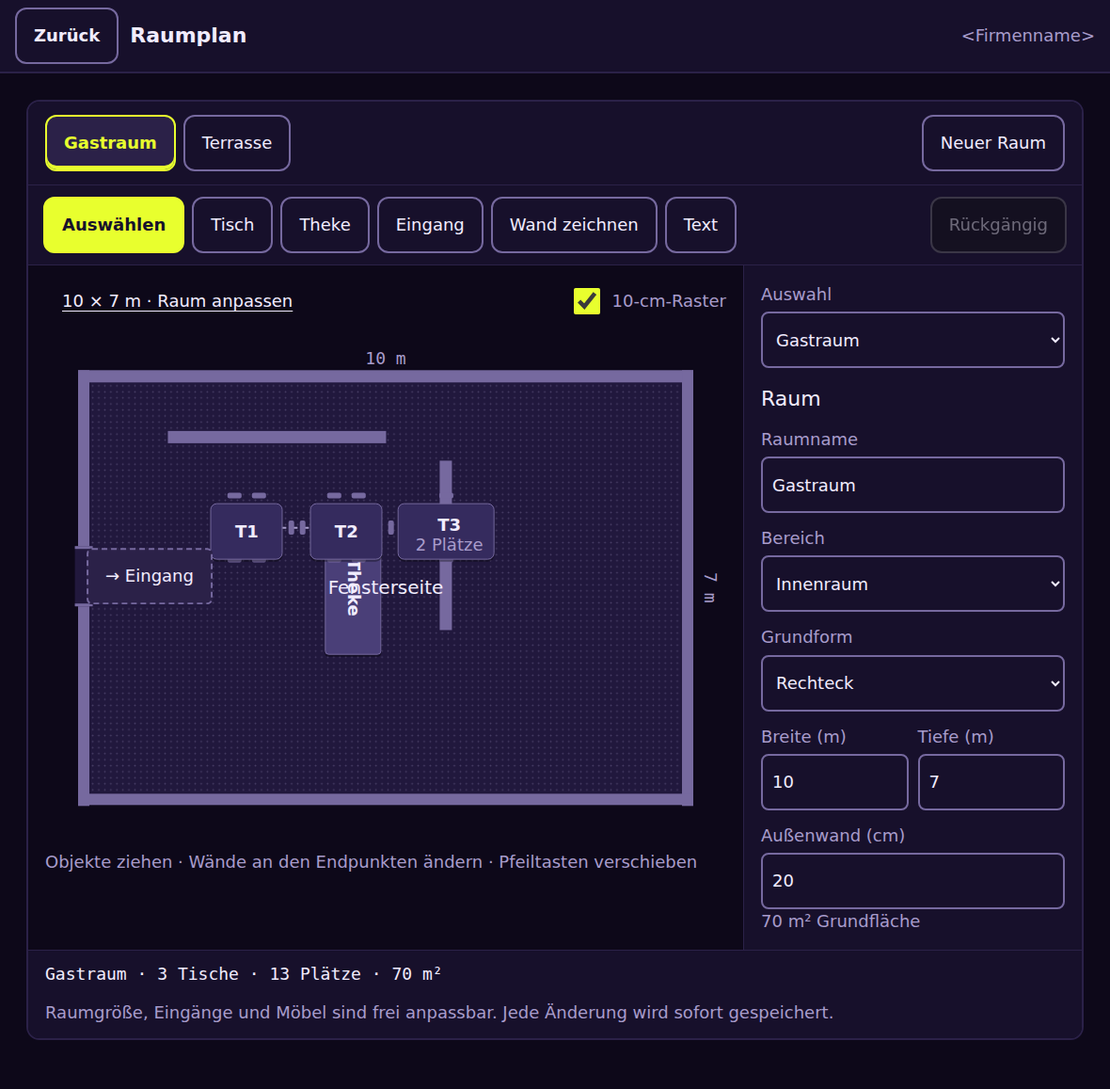
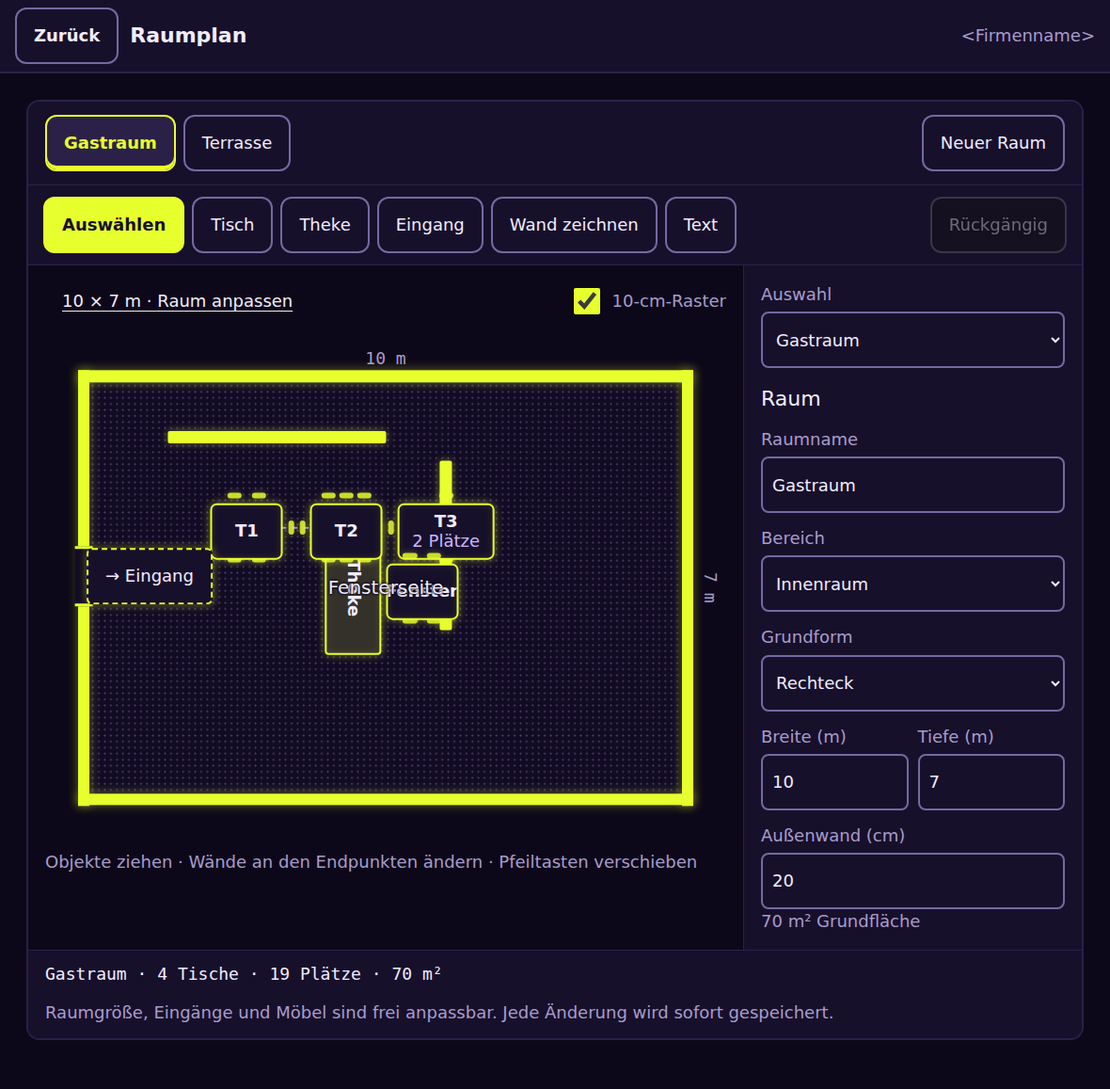
feat(gui): floor plan in neon, labels that turn, the counter's name centred
Tables, chairs, walls, counter and entrance are drawn in neon on midnight with a soft glow, the selection turns violet, names stay white, and free labels carry a thin dark outline (Maxi, 03.11.2026). A label turns across, upright from below and upright from above, and never stands on its head; its turn is stored with the label. A name written top to bottom was off centre on a counter, above the middle at 0 degrees and below it at 180; the text is now centred by position.

Changed region(s): [[0.061, 0.3111, 0.6407, 0.7468]]

diff --git a/api/gui/static/raumplan.css b/api/gui/static/raumplan.css
@@ -1,18 +1,24 @@
 /* The floor plan editor (T-3.11). Layout and behaviour of the approved design
    (gui/mockups/floor-plan-editor.html); since Maxi's word of 03.11.2026 it wears
-   the colours of the board (D27, app.css) instead of the preview's green: neon
-   marks the selection and the tool in use, coral only removing and what went
-   wrong, one dark theme. Sizes follow docs/06 §1: controls 60 px, text 18 px. */
+   the colours of the board and the README (D27, app.css) instead of the
+   preview's green, one dark theme: the plan is drawn in neon like a sign on
+   midnight with white names, what is selected turns violet (being worked on),
+   coral is only removing and what went wrong. Text 4.5:1 or more on every fill; a free label
+   carries a thin dark outline so it reads on a neon wall too. Sizes follow
+   docs/06 §1: controls 60 px, text 18 px. */
 
 .re {
   color-scheme: dark;
   --re-bg: var(--bg); --re-panel: var(--surface); --re-ink: var(--text); --re-sub: var(--muted);
   --re-line: var(--line); --re-control: var(--line-strong);
   --re-accent: var(--accent); --re-on: var(--surface); --re-soft: var(--accent-bg);
-  --re-floor: var(--surface-2); --re-terrace: #1A1330;
-  --re-wood: #352B5E; --re-wood-on: #433878; --re-counter: #4A3F78;
-  --re-edge: var(--line-strong); --re-chair: var(--line-strong); --re-wall: var(--line-strong);
-  --re-link: var(--muted); --re-red: var(--danger);
+  --re-floor: #120B24; --re-terrace: #0F0A1E;
+  --re-wood: var(--surface); --re-wood-on: var(--warn-bg); --re-counter: color-mix(in srgb, var(--accent) 14%, var(--surface));
+  --re-edge: var(--accent); --re-chair: var(--accent); --re-wall: var(--accent);
+  --re-glow: color-mix(in srgb, var(--accent) 38%, transparent);
+  --re-select: var(--warn-line); --re-select-glow: color-mix(in srgb, var(--warn-line) 40%, transparent);
+  --re-link: var(--warn-line); --re-red: var(--danger);
+  --re-outline: 0 0 2px var(--bg), 0 0 2px var(--bg), 0 0 3px var(--bg);
   --re-tap: var(--tap, 60px);
   color: var(--re-ink); background: var(--re-bg); border: 2px solid var(--re-line); border-radius: var(--r-lg, 14px); overflow: hidden;
   font: 18px/1.4 var(--font-sans, system-ui, sans-serif); margin: 12px;
@@ -50,12 +56,12 @@
 .re-grid-control input { width: 28px; height: 28px; accent-color: var(--re-accent); }
 .re-stage { height: 520px; position: relative; margin: 0 14px; min-width: 0; }
 .re-floor { position: absolute; left: 50%; top: 50%; transform: translate(-50%, -50%); background: var(--re-floor); isolation: isolate; touch-action: none; }
-.re-floor.re-grid { background-image: radial-gradient(circle, color-mix(in srgb, var(--re-sub) 30%, transparent) .8px, transparent 1px); }
+.re-floor.re-grid { background-image: radial-gradient(circle, color-mix(in srgb, var(--line-strong) 45%, transparent) .9px, transparent 1.2px); }
 .re-floor.re-drawing { cursor: crosshair; }
 .re-floor.re-drawing .re-object, .re-floor.re-drawing .re-endpoint { pointer-events: none; }
 .re-floor.re-terrace { background-color: var(--re-terrace); }
-.re-floor.re-terrace .re-outer { background: transparent; border: 2px dashed var(--re-wall); }
-.re-outer { position: absolute; background: var(--re-wall); pointer-events: none; z-index: 0; }
+.re-floor.re-terrace .re-outer { background: transparent; border: 2px dashed var(--re-wall); box-shadow: none; }
+.re-outer { position: absolute; background: var(--re-wall); box-shadow: 0 0 12px var(--re-glow); pointer-events: none; z-index: 0; }
 .re-dimension { position: absolute; color: var(--re-sub); font-family: var(--font-mono, monospace); white-space: nowrap; pointer-events: none; }
 .re-dimension-x { left: 50%; top: -32px; transform: translateX(-50%); }
 .re-dimension-y { right: -12px; top: 50%; transform: translate(100%, -50%); writing-mode: vertical-rl; }
@@ -68,36 +74,39 @@
 .re-object button { cursor: grab; touch-action: none; user-select: none; -webkit-user-select: none; }
 .re-object button:active { cursor: grabbing; }
 .re-furniture { transform: translate(-50%, -50%) rotate(var(--re-angle)); }
-.re-piece { position: absolute; inset: 0; width: 100%; height: 100%; border: 1px solid var(--re-edge); border-radius: 7px; background: var(--re-wood); color: var(--re-ink); padding: 0; display: grid; place-items: center; overflow: hidden; box-shadow: 0 2px 0 rgba(0, 0, 0, .35); }
+.re-piece { position: absolute; inset: 0; width: 100%; height: 100%; border: 2px solid var(--re-edge); border-radius: 7px; background: var(--re-wood); padding: 0; display: grid; place-items: center; overflow: hidden; box-shadow: 0 0 10px var(--re-glow), inset 0 0 8px color-mix(in srgb, var(--accent) 10%, transparent); }
 .re-round .re-piece { border-radius: 50%; }
-.re-selected .re-piece { background: var(--re-wood-on); border: 3px solid var(--re-accent); box-shadow: 0 0 0 4px color-mix(in srgb, var(--re-accent) 22%, transparent); }
-.re-piece-text { display: flex; flex-direction: column; align-items: center; transform: rotate(var(--re-text-turn)); pointer-events: none; white-space: nowrap; line-height: 1.15; }
+.re-selected .re-piece { background: var(--re-wood-on); border: 3px solid var(--re-select); box-shadow: 0 0 0 4px var(--re-select-glow), 0 0 14px var(--re-select-glow); }
+/* Centred by position, not by the grid: a name written top to bottom stood
+   off centre, above the middle at 0 degrees and below it at 180. */
+.re-piece-text { position: absolute; left: 50%; top: 50%; display: flex; flex-direction: column; align-items: center; transform: translate(-50%, -50%) rotate(var(--re-text-turn)); pointer-events: none; white-space: nowrap; line-height: 1.15; }
 .re-piece-text.re-vertical { writing-mode: vertical-rl; }
 .re-piece-name { font-weight: 600; }
-.re-piece-seats { color: var(--re-sub); }
+.re-piece-seats { color: var(--warn); }
 /* Muted text reaches only 4:1 on the lighter fill of a selected table. */
 .re-selected .re-piece-seats { color: var(--re-ink); }
 .re-piece-seats[hidden] { display: none; }
 .re-counter .re-piece { background: var(--re-counter); border-radius: 4px; }
 .re-counter.re-selected .re-piece { background: var(--re-wood-on); }
 .re-counter .re-piece-name { max-width: 200px; overflow: hidden; text-overflow: ellipsis; }
-.re-chair { position: absolute; transform: translate(-50%, -50%) rotate(var(--chair-angle, 0deg)); background: var(--re-chair); border-radius: 2px; pointer-events: none; }
+.re-chair { position: absolute; transform: translate(-50%, -50%) rotate(var(--chair-angle, 0deg)); background: var(--re-chair); border-radius: 3px; opacity: .85; box-shadow: 0 0 6px var(--re-glow); pointer-events: none; }
+.re-selected .re-chair { background: var(--re-select); box-shadow: 0 0 6px var(--re-select-glow); }
 .re-wall-object { transform: translate(-50%, -50%) rotate(var(--re-angle)); }
 .re-wall-hit { position: absolute; inset: 0; border: 0; padding: 0; width: 100%; height: 100%; background: transparent; }
-.re-wall-bar { position: absolute; left: 0; right: 0; top: 50%; transform: translateY(-50%); height: var(--re-thickness); background: var(--re-wall); pointer-events: none; }
-.re-selected .re-wall-bar { background: var(--re-accent); box-shadow: 0 0 0 4px color-mix(in srgb, var(--re-accent) 22%, transparent); }
-.re-wall-measure { position: absolute; left: 50%; top: calc(50% - 34px); transform: translate(-50%, -100%) rotate(calc(-1 * var(--re-angle))); color: var(--re-ink); font-family: var(--font-mono, monospace); font-weight: 600; white-space: nowrap; pointer-events: none; }
+.re-wall-bar { position: absolute; left: 0; right: 0; top: 50%; transform: translateY(-50%); height: var(--re-thickness); background: var(--re-wall); border-radius: 2px; box-shadow: 0 0 10px var(--re-glow); pointer-events: none; }
+.re-selected .re-wall-bar { background: var(--re-select); box-shadow: 0 0 0 4px var(--re-select-glow), 0 0 14px var(--re-select-glow); }
+.re-wall-measure { position: absolute; left: 50%; top: calc(50% - 34px); transform: translate(-50%, -100%) rotate(calc(-1 * var(--re-angle))); color: var(--re-ink); text-shadow: var(--re-outline); font-family: var(--font-mono, monospace); font-weight: 600; white-space: nowrap; pointer-events: none; }
 .re-preview { position: absolute; background: var(--re-accent); opacity: .55; pointer-events: none; z-index: 8; }
 /* The visible point is small; the target around it is 60 px (docs/06 §1). */
-.re-endpoint { position: absolute; width: 26px; height: 26px; padding: 0; transform: translate(-50%, -50%); border: 3px solid var(--re-accent); background: var(--re-panel); border-radius: 50%; z-index: 7; touch-action: none; cursor: crosshair; }
+.re-endpoint { position: absolute; width: 26px; height: 26px; padding: 0; transform: translate(-50%, -50%); border: 3px solid var(--re-select); background: var(--re-panel); border-radius: 50%; z-index: 7; touch-action: none; cursor: crosshair; }
 .re-endpoint::after { content: ""; position: absolute; inset: -17px; }
-.re-door-gap { position: absolute; background: var(--re-floor); transform: translate(-50%, -50%); pointer-events: none; border-inline: 3px solid var(--re-control); }
-.re-door.re-side .re-door-gap { border-inline: 0; border-block: 3px solid var(--re-control); }
-.re-door-button { position: absolute; transform: translate(-50%, -50%); border: 2px dashed var(--re-control); border-radius: 6px; padding: 6px 10px; background: var(--re-soft); color: var(--re-ink); white-space: nowrap; max-width: 220px; overflow: hidden; text-overflow: ellipsis; }
+.re-door-gap { position: absolute; background: var(--re-floor); transform: translate(-50%, -50%); pointer-events: none; border-inline: 3px solid var(--re-wall); }
+.re-door.re-side .re-door-gap { border-inline: 0; border-block: 3px solid var(--re-wall); }
+.re-door-button { position: absolute; transform: translate(-50%, -50%); border: 2px dashed var(--re-wall); border-radius: 6px; padding: 6px 10px; background: var(--re-wood); font-weight: 600; box-shadow: 0 0 10px var(--re-glow); white-space: nowrap; max-width: 220px; overflow: hidden; text-overflow: ellipsis; }
 .re-door-button::after, .re-label-button::after { content: ""; position: absolute; inset: -10px; }
-.re-selected .re-door-button { border: 3px solid var(--re-accent); }
-.re-label-button { position: relative; display: block; transform: translate(-50%, -50%); padding: 4px 6px; border: 2px solid transparent; background: transparent; color: var(--re-ink); border-radius: 6px; max-width: 240px; white-space: normal; overflow-wrap: anywhere; }
-.re-selected .re-label-button { border: 2px dashed var(--re-accent); background: var(--re-soft); }
+.re-selected .re-door-button { border: 3px solid var(--re-select); background: var(--re-wood-on); box-shadow: 0 0 0 4px var(--re-select-glow); }
+.re-label-button { position: relative; display: block; transform: translate(-50%, -50%) rotate(var(--re-label-turn, 0deg)); padding: 4px 6px; border: 2px solid transparent; background: transparent; color: var(--re-ink); text-shadow: var(--re-outline); border-radius: 6px; max-width: 240px; white-space: normal; overflow-wrap: anywhere; }
+.re-selected .re-label-button { border: 2px dashed var(--re-select); background: color-mix(in srgb, var(--re-wood-on) 85%, transparent); }
 .re-hint { min-height: 44px; padding: 4px 18px 14px; color: var(--re-sub); }
 
 .re-aside { padding: 18px; background: var(--re-panel); border-left: 1px solid var(--re-line); min-width: 0; }

diff --git a/api/gui/static/raumplan.js b/api/gui/static/raumplan.js
@@ -25,6 +25,7 @@
   var ui = { grid: true, advanced: false };
 
   var TITLES = { table: "Tisch", counter: "Theke", door: "Eingang", wall: "Wand", label: "Beschriftung" };
+  var LABEL_TURN_TEXT = { 0: "Waagerecht", "-90": "Senkrecht, von unten zu lesen", 90: "Senkrecht, von oben zu lesen" };
   var NOT_SAVED = "Nicht gespeichert: keine Verbindung zum Server. Die Änderung bleibt auf diesem Gerät.";
 
   function fmt(n, d) { return new Intl.NumberFormat("de-DE", { maximumFractionDigits: d === undefined ? 2 : d }).format(n); }
@@ -189,7 +190,7 @@
     if (type === "table") o = { id: id, type: type, name: G.nextTableName(allTableNames()), x: x, y: y, w: 120, h: 80, angle: 0, shape: "rect", seats: 4, endSeat: "left" };
     if (type === "counter") o = { id: id, type: type, name: "Theke", x: x, y: y, w: 80, h: 220, angle: 0 };
     if (type === "door") o = { id: id, type: type, name: "Eingang", side: "bottom", offset: r.w * 0.7, width: 100 };
-    if (type === "label") o = { id: id, type: type, text: "Beschriftung", x: x, y: y, size: "normal" };
+    if (type === "label") o = { id: id, type: type, text: "Beschriftung", x: x, y: y, size: "normal", angle: 0 };
     if (!G.available(o, r)) { status("Für dieses Objekt ist der Raum zu klein.", true); return; }
     G.fit(o, r);
     area.objects.push(o);
@@ -371,12 +372,16 @@
       wrap.classList.add("re-label");
       b = node("button", "re-label-button", o.text);
       b.type = "button";
+      var labelTurn = G.readableTurn(o.angle);
       b.style.fontSize = (G.LABEL_PX[o.size] || 20) + "px";
+      b.style.setProperty("--re-label-turn", labelTurn + "deg");
       b.setAttribute("aria-label", "Beschriftung: " + o.text);
       b.setAttribute("aria-pressed", String(active));
       wrap.append(b);
       floor.append(wrap);
-      var lw = b.offsetWidth, lh = b.offsetHeight;
+      // A label turned upright takes its width as height on the plan.
+      var upright = labelTurn !== 0;
+      var lw = upright ? b.offsetHeight : b.offsetWidth, lh = upright ? b.offsetWidth : b.offsetHeight;
       wrap.style.left = G.clamp(o.x * scale, lw / 2 + 3, area.room.w * scale - lw / 2 - 3) + "px";
       wrap.style.top = G.clamp(o.y * scale, lh / 2 + 3, area.room.h * scale - lh / 2 - 3) + "px";
     }
@@ -533,7 +538,10 @@
           numberField("thickness", "Dicke (cm)", o.thickness, L.wallMin, L.wallMax, 1) +
           numberField("angle", "Winkel (°)", Number(o.angle.toFixed(1)), -180, 180, 0.1, true);
       }
-      if (o.type === "label") html += selectField("size", "Schriftgröße", o.size, [["small", "Klein"], ["normal", "Normal"], ["large", "Groß"], ["xlarge", "Sehr groß"]]);
+      if (o.type === "label") {
+        html += selectField("size", "Schriftgröße", o.size, [["small", "Klein"], ["normal", "Normal"], ["large", "Groß"], ["xlarge", "Sehr groß"]]);
+        html += '<button type="button" class="re-btn re-full" data-action="turnLabel">Drehen</button><p class="re-meta re-full">' + LABEL_TURN_TEXT[G.readableTurn(o.angle)] + "</p>";
+      }
       extra += '<button class="re-btn re-delete" type="button" data-action="delete">' + title + " entfernen</button>";
     }
     props.innerHTML = "<h3>" + title + '</h3><div class="re-field-grid">' + html + "</div>" + extra;
@@ -599,6 +607,13 @@
     if (action === "room") { selectedId = "room"; mode = "select"; render(); return; }
     if (action === "clone") { cloneTable(); return; }
     if (action === "delete" && o) { remove(o); return; }
+    if (action === "turnLabel" && o && o.type === "label") {
+      var turnedFrom = content(area);
+      o.angle = G.nextLabelTurn(o.angle);
+      G.fit(o, area.room);
+      commit("Text gedreht: " + LABEL_TURN_TEXT[G.readableTurn(o.angle)], turnedFrom);
+      return;
+    }
     if (action && o) {
       var prior = content(area);
       if (action === "plus") o.seats = Math.min(L.seatsMax, o.seats + 1);

diff --git a/api/gui/static/raumplan-geometry.js b/api/gui/static/raumplan-geometry.js
@@ -61,6 +61,22 @@
     return { turn: -(o.angle || 0), vertical: o.type === "counter" && size[1] > size[0] * 1.5 };
   }
 
+  // A free label turns with its quarter turn but never stands on its head:
+  // 180 reads as 0, 270 as -90 (from below). The result lies in (-90, 90].
+  function readableTurn(angle) {
+    var a = ((Math.round(angle || 0) % 360) + 360) % 360;
+    if (a > 90 && a < 270) a -= 180;
+    else if (a >= 270) a -= 360;
+    return a;
+  }
+
+  // "Drehen" on a label: across, then from below (along a left wall), then from above.
+  var LABEL_TURNS = [0, 270, 90];
+  function nextLabelTurn(angle) {
+    var i = LABEL_TURNS.indexOf((readableTurn(angle) + 360) % 360);
+    return LABEL_TURNS[(i + 1) % LABEL_TURNS.length];
+  }
+
   function endpoints(o) {
     var dx = Math.cos(rad(o.angle)) * o.length / 2;
     var dy = Math.sin(rad(o.angle)) * o.length / 2;
@@ -174,7 +190,7 @@
       else if (f.kind === "wall") objects.push({ id: f.id, type: "wall", name: f.name,
         x: f.x_cm, y: f.y_cm, length: f.length_cm, angle: f.angle, thickness: f.thickness_cm });
       else if (f.kind === "label") objects.push({ id: f.id, type: "label", text: f.text,
-        x: f.x_cm, y: f.y_cm, size: f.size });
+        x: f.x_cm, y: f.y_cm, size: f.size, angle: f.rotation || 0 });
     });
     return {
       room: { id: doc.id, name: doc.name, kind: doc.kind, shape: doc.shape,
@@ -203,7 +219,8 @@
         x_cm: round1(o.x), y_cm: round1(o.y), length_cm: round1(o.length), angle: round1(o.angle),
         thickness_cm: Math.round(o.thickness) });
       else if (o.type === "label") fixtures.push({ kind: "label", id: o.id, text: o.text,
-        x_cm: round1(o.x), y_cm: round1(o.y), size: o.size });
+        x_cm: round1(o.x), y_cm: round1(o.y), size: o.size,
+        rotation: ((Math.round((o.angle || 0) / 90) * 90) % 360 + 360) % 360 });
     });
     return {
       name: r.name, kind: r.kind, shape: r.shape, width_cm: Math.round(r.w),
@@ -216,7 +233,7 @@
   return {
     PRESETS: PRESETS, LABEL_PX: LABEL_PX, LIMITS: LIMITS, clamp: clamp,
     seatSides: seatSides, hasEndChoice: hasEndChoice, footprint: footprint,
-    labelTurn: labelTurn, endpoints: endpoints, wallFromPoints: wallFromPoints,
+    labelTurn: labelTurn, readableTurn: readableTurn, nextLabelTurn: nextLabelTurn, endpoints: endpoints, wallFromPoints: wallFromPoints,
     fit: fit, available: available, doorPoint: doorPoint, moveDoor: moveDoor,
     nextTableName: nextTableName, placeCopy: placeCopy, toClient: toClient,
     toServer: toServer

diff --git a/api/schemas/floor_plan.py b/api/schemas/floor_plan.py
@@ -77,6 +77,8 @@ class Label(_Strict):
     x_cm: Coordinate
     y_cm: Coordinate
     size: Literal["small", "normal", "large", "xlarge"] = "normal"
+    # Drawn so it never stands on its head (raumplan-geometry.js, readableTurn).
+    rotation: Rotation = 0
 
 
 Fixture = Annotated[Counter | Door | Wall | Label, Field(discriminator="kind")]

diff --git a/api/tests/test_domain_floor_plan.py b/api/tests/test_domain_floor_plan.py
@@ -94,6 +94,7 @@ FIXTURES = [
         "x_cm": 200,
         "y_cm": 55,
         "size": "normal",
+        "rotation": 270,
     },
 ]
 

diff --git a/docs/06_GUI.md b/docs/06_GUI.md
@@ -141,9 +141,9 @@ The page `/gui/raumplan` (button „Raumplan“ in the header, next to „Kennza
 - **Saved at once, by step.** A drag stays on the tablet; the drop, a field, a copy, a removal and an undo each send the whole room once to `PUT /gui/raumplan/bereiche/<id>`, which `domain/reservations/floor_plan.py` checks and stores, with an entry `floor_plan.saved` in `audit_log` (what changed, before and after, by the names on the plan). A new room is `POST /gui/raumplan/bereiche` (`floor_plan.area_created`). Both need the page's CSRF token and `HX-Request` (§9).
 - **The server decides.** A step the server refuses (a table name that already stands in another room, a table outside its room, a value out of bounds) is undone on the tablet and the reason stands in coral under the plan. A room another tablet saved meanwhile is refused with a 409 and loaded as it stands: „Ein anderes Gerät hat diesen Raum inzwischen geändert …“; the undo steps of that room are dropped. Without a connection the step stays on the tablet, the line says „Nicht gespeichert …“ with „Nochmal speichern“, and leaving the page asks first. A save whose answer was lost on the line may have been stored: the tablet sends it again exactly as it was before any newer step, and the server takes the same room twice as no conflict. An answer never redraws the field the team is typing into; only a refused or replaced room is drawn again.
 - **Tables:** name (one live „T5“ per restaurant across all rooms, whatever the case, so T-3.12 can seat a reservation on it), rectangular or round, seats in single steps from 1 to 40, a size from the presets, a quarter turn. Seats are drawn by the accepted rule: up to five an odd seat takes one end („Zusatzplatz an der Stirnseite“, left or right); from six both ends stay occupied and the rest alternate between the long sides (6 = 2 + 2 + 1 + 1, 7 = 3 + 2 + 1 + 1). „Erweiterter Modus“ opens width and depth in centimetres; switched off it locks them and keeps a custom size. It holds for the page, not across a reload. „Tisch kopieren“ gives the copy a new id and the next free number over all rooms and keeps size, shape, seats, end seat and turn, not the combinations. „Tische kombinieren“ marks pairs within the room, drawn as dashed lines.
-- **Counter, entrance, walls, labels:** a counter moves, turns and changes size, and its name stays upright at every quarter turn (the preview's name stood on its head); an entrance follows the finger along the nearest outer wall; a wall is drawn by a drag or by two taps, its end points move, and length, thickness and angle are fields; a free label has four sizes of 18, 20, 26 and 32 px. A terrace has a dashed boundary instead of a wall.
+- **Counter, entrance, walls, labels:** a counter moves, turns and changes size, and its name stays upright and centred at every quarter turn (the preview's name stood on its head, and a name written top to bottom sat off centre, above the middle at 0 degrees and below it at 180); an entrance follows the finger along the nearest outer wall; a wall is drawn by a drag or by two taps, its end points move, and length, thickness and angle are fields; a free label has four sizes of 18, 20, 26 and 32 px, and „Drehen“ turns it across, upright to be read from below (along a left wall) and upright to be read from above; it never stands on its head (Maxi, 03.11.2026). A terrace has a dashed boundary instead of a wall.
 - **Removing asks first** (§1 rule 6): „Tisch „T5“ entfernen?“; „Rückgängig“ brings it back with its id. A removed table is soft deleted. Rooms cannot be removed yet, an entrance stays on the outer wall, a room is a rectangle: none of that was approved (README of the design).
-- **Sizes and colours:** every control outside the plan 60 px, all text 18 px or more, measured in the browser at 1280 x 800; furniture on the plan keeps its real proportions and a table too small for „5 Plätze“ shows its name only (the count stays in its label for a screen reader). The editor wears the board's colours and its one dark theme (D27; Maxi, 03.11.2026, in place of the preview's green with a light and a dark look): neon marks the selection, the room shown and the tool in use, coral only „entfernen“ and what went wrong, dimensions and the totals in monospace; tables, counter, walls and chairs in muted violet tones on the floor, text 4.5:1 or more on every fill.
+- **Sizes and colours:** every control outside the plan 60 px, all text 18 px or more, measured in the browser at 1280 x 800; furniture on the plan keeps its real proportions and a table too small for „5 Plätze“ shows its name only (the count stays in its label for a screen reader). The editor wears the board's and the README's colours, one dark theme (D27; Maxi, 03.11.2026, in place of the preview's green with a light and a dark look): the plan is drawn in neon on midnight like a sign, outer walls, walls, tables, chairs, counter and entrance, with a soft glow; names stay white and seat counts light violet, so text reads at 10:1 or more; what is selected turns violet (being worked on), as do the dashed lines of the pairs; a free label is white with a thin dark outline, so it reads on a neon wall too. Neon also marks the room shown and the tool in use, coral only „entfernen“ and what went wrong, dimensions and the totals are in monospace.
 - **Keyboard:** arrow keys move the selection by 10 cm (1 cm with Shift, 5 cm without the grid), Delete removes after the question, Ctrl+Z undoes, Escape stops drawing.
 - Not here: a real tablet, glare, the on-screen keyboard over the fields and a screen reader (T-3.5); clearance between pieces (a copy is placed beside its source if there is room, nothing more).
 
@@ -192,7 +192,7 @@ The page `/gui/raumplan` (button „Raumplan“ in the header, next to „Kennza
 
 ## 7. Mockup-Abnahme
 
-- **03.11.2026 – Raumplan built (T-3.11, Maxi's approved design of the same day):** production version of `gui/mockups/floor-plan-editor.html` as §3 „Raumplan“, sizes raised to §1 (controls 60 px, text 18 px), label sizes 18 to 32 px instead of 12 to 22, deletion with a question instead of the preview's undo only. Colours: the board's (D27) after Maxi's word on the first build, not the preview's green. Screenshots: `docs/design/2026-11-floor-plan/`. Checked in a headless browser at 1280 x 800 and 1180 x 800 under the proxy's Content-Security-Policy, 53 steps: the seat rule at 5 to 8 seats with both end-seat sides, the counter's name upright at all four turns, drag and arrow keys, a copy with a new id and number and without the pairs, a pair drawn and stored, custom size kept and locked, preset keeps the seats, both wall gestures and an end point, the entrance dragged onto the left wall, a label removed after the question and brought back by undo, a removed table back with its id, a terrace with its own table, both rooms after a reload, a conflict with a second tablet, a name refused by the server, a lost connection and „Nochmal speichern“, a stored save whose answer was lost followed by a new step without a false conflict, a name typed while an earlier save answers, no script error and no refused style. Not checked: a real tablet, touch with a finger, a screen reader.
+- **03.11.2026 – Raumplan built (T-3.11, Maxi's approved design of the same day):** production version of `gui/mockups/floor-plan-editor.html` as §3 „Raumplan“, sizes raised to §1 (controls 60 px, text 18 px), label sizes 18 to 32 px instead of 12 to 22, deletion with a question instead of the preview's undo only. Colours: the board's (D27) with the plan in neon, after Maxi's word on the first build, not the preview's green. Screenshots: `docs/design/2026-11-floor-plan/`. Checked in a headless browser at 1280 x 800 and 1180 x 800 under the proxy's Content-Security-Policy, 60 steps: the seat rule at 5 to 8 seats with both end-seat sides, the counter's name upright and centred at all four turns, a label turned from below, from above and back across, drag and arrow keys, a copy with a new id and number and without the pairs, a pair drawn and stored, custom size kept and locked, preset keeps the seats, both wall gestures and an end point, the entrance dragged onto the left wall, a label removed after the question and brought back by undo, a removed table back with its id, a terrace with its own table, both rooms after a reload, a conflict with a second tablet, a name refused by the server, a lost connection and „Nochmal speichern“, a stored save whose answer was lost followed by a new step without a false conflict, a name typed while an earlier save answers, no script error and no refused style. Not checked: a real tablet, touch with a finger, a screen reader.
 - **02.11.2026 – Panels as sheets, „Gericht aus“ grouped (T-3.8, Maxi):** both panels were a box above the columns and pushed the board down; „Gericht aus“ was one flat list. Now both open as one kind of sheet over the columns (§3 „Blätter“) and the dishes stand under a heading per category in menu order. The columns keep a height of their own (the 360 px minimum for an open panel is gone). Review round (03.11.2026): the foot of the correction names the real reason and carries the message; a strip tells of a new order or complaint under a sheet; a correction closed by the idle timer says nothing was saved; „Heute aus“ is a neutral button (coral stays for what went wrong) and the note of an order (an allergy) is a solid violet fill with dark text; dishes that are out form a first group; every category folds. Second round: the cancel line shows for 6 seconds above the columns (an event, not part of the refreshed column), a dish tap swaps only its own row, the list is not redrawn by the `dishes` event, an opened category scrolls to the top, a correction dropped by the strip says nothing was saved, a refused number is a coral sentence at the number field. Screenshots: `docs/design/2026-11-panels/`. Checked in the browser at 1280 x 800 and 1180 x 800 on both open sheets, at rest and scrolled (also a correction with eight lines): all visible text 18 px or more, text contrast 4.5:1 or more, every control 60 px, title and close button in view, the save buttons in view at the top and the bottom of the scroll, the stop button of the command bar tappable under an open sheet, focus on the title after opening and back on the opener after closing, Escape closes. Not checked: a real tablet, the on-screen keyboard over the search field, a screen reader, widths under 900 px.
 - **02.11.2026 – The colours of the README (D27, Maxi):** the view wears the brand palette of docs/15 and keeps its meaning: neon `#E8FF2E` is done and the main action, violet `#9D7BFF` is open or waiting, coral `#FF5277` is only what went wrong, on midnight `#0D0819`. Times, codes, counts and sums are in the system monospace face of the README, the text stays sans. The light theme of D26 is gone: one theme, whatever the tablet is set to. The look of `gui/mockups/betrieb-tablet.html` holds for layout, its colours are superseded; screenshots: `docs/design/2026-11-brand/`. Checked in the browser on the board, the open holiday strip, „Gericht aus“, „Korrigieren“, the key figures and the console: all visible text 18 px or more, text contrast 4.5:1 or more against its real background, every control 60 px. That check found that the columns of D26 did not scroll on their own: the whole board scrolled under the bar, against the entry below. Fixed here. Not checked: glare in a bright kitchen on a real tablet; if the dark theme fails there, a light one comes back as a token block.
 - **02.11.2026 – Betriebsansicht, Redesign (D26, replaces the mockup of 16.09.2026 for the look; screens, functions and texts stay):** Maxi approved the direction after a critique and an accessibility review of the screens at 1280 x 800. Mockup: `gui/mockups/betrieb-tablet.html`; before and after screenshots: `docs/design/2026-11-redesign/`. What changed:

diff --git a/docs/01_STATUS.md b/docs/01_STATUS.md
@@ -577,7 +577,7 @@ Details and full list: `docs/07_WORKPACKAGES.md`. Mirrored on GitHub as issues: 
 
 | Date | What |
 |---|---|
-| 03.11.2026 | **T-3.11 floor plan editor (#496), after the design Maxi approved the same day.** `/gui/raumplan` (button „Raumplan“ in the header): rooms and terraces, tables with name, shape, size presets, seats in single steps and a quarter turn, copies with a new id and number, explicit pairs of tables that combine, counters, entrances on the outer wall, drawn walls and free labels (docs/06 §3 „Raumplan“). Migration 027 (`floor_areas` with the fixtures as JSONB and a revision, `dining_tables` soft deleted with one live name per restaurant, `table_combinations`), up and down tested. `domain/reservations/floor_plan.py` stores a whole room per finished step under the restaurant's advisory lock, refuses an older revision with the room as it stands (409), takes the same save twice as no conflict, keeps tables inside their room and other restaurants' rooms and tables out of reach, writes `floor_plan.saved` and `floor_plan.area_created` to `audit_log`. The browser drags locally and saves through the CSRF-checked JSON routes; a refused step is undone with its reason, a lost connection keeps the step with „Nochmal speichern“. The two mistakes Maxi found in the preview have regression checks in node (`test_gui_floor_plan_geometry.py`): six seats are 2 + 2 + 1 + 1, the counter's name stays upright at every quarter turn. Tests: migration 027 (11), domain (26, with a lock test that fails without the lock and a name swap the database refuses), routes (19, CSRF, 409, 422, 404 for another restaurant, latency), geometry; headless browser walkthrough of 53 steps under the proxy's CSP, screenshots in `docs/design/2026-11-floor-plan/`. Save of a room with eight tables: p95 under the 300 ms budget (`test_a_save_stays_within_the_budget`). It wears the board's colours (D27), not the preview's green (Maxi, 03.11.2026, after the first build). The agent is unchanged: it books on seats (D28) |
+| 03.11.2026 | **T-3.11 floor plan editor (#496), after the design Maxi approved the same day.** `/gui/raumplan` (button „Raumplan“ in the header): rooms and terraces, tables with name, shape, size presets, seats in single steps and a quarter turn, copies with a new id and number, explicit pairs of tables that combine, counters, entrances on the outer wall, drawn walls and free labels (docs/06 §3 „Raumplan“). Migration 027 (`floor_areas` with the fixtures as JSONB and a revision, `dining_tables` soft deleted with one live name per restaurant, `table_combinations`), up and down tested. `domain/reservations/floor_plan.py` stores a whole room per finished step under the restaurant's advisory lock, refuses an older revision with the room as it stands (409), takes the same save twice as no conflict, keeps tables inside their room and other restaurants' rooms and tables out of reach, writes `floor_plan.saved` and `floor_plan.area_created` to `audit_log`. The browser drags locally and saves through the CSRF-checked JSON routes; a refused step is undone with its reason, a lost connection keeps the step with „Nochmal speichern“. The two mistakes Maxi found in the preview have regression checks in node (`test_gui_floor_plan_geometry.py`): six seats are 2 + 2 + 1 + 1, the counter's name stays upright at every quarter turn. Tests: migration 027 (11), domain (26, with a lock test that fails without the lock and a name swap the database refuses), routes (19, CSRF, 409, 422, 404 for another restaurant, latency), geometry; headless browser walkthrough of 60 steps under the proxy's CSP, screenshots in `docs/design/2026-11-floor-plan/`. Save of a room with eight tables: p95 under the 300 ms budget (`test_a_save_stays_within_the_budget`). It wears the board's colours (D27) with the plan drawn in neon, not the preview's green, free labels turn and never stand on their head, and the counter's name is centred at every turn (Maxi, 03.11.2026, after the first build). The agent is unchanged: it books on seats (D28) |
 | 03.11.2026 | **A notice past the last start points to another day (#527, Codex on #513).** Inside the notice, with no slot of the day left outside it in any service (240 minutes from 19:00 against a last start of 21:30, or a full rest of the evening), `check_slot` asked "Zu welcher anderen Uhrzeit passt es Ihnen?", every time named that evening was refused the same way, and the ladder escalated. `_say_too_soon` now ends with `ASK_OTHER_DAY` ("Auch später an dem Tag geht es leider nicht mehr. Welcher andere Tag passt Ihnen?"): no existing sentence asked for another day, so it follows "Welcher frühere Tag passt Ihnen?" of the horizon. It names no day, so a closed Monday after a Sunday is not promised. A lunch inside the notice with the evening still free keeps the question for another time. Tests in `test_domain_reservation_notice.py`, red before: the issue's case for 20:00 and 21:30, the full evening, a notice one minute past the last start, the Sunday before the closed Monday; guards: one slot left, a notice ending exactly on the last start, lunch with a free evening. Eval `reservierung_0044` (red on main). docs/04 synced |
 | 03.11.2026 | **`POST /v1/calls/end` exists in dev and test only too (Maxi, 03.11.2026).** The voice layer ends its calls in its own process (`telephony/handler.py`), so outside dev and test nothing needs the route; a token holder who knew a call's id could end its log early. `add_local_routes` in `api/main.py` registers both call routes; tests: each is present in dev and test, absent with a 404 in production, prod and staging, and registered once in the app under test. Maxi also accepted the choices (b) to (h) of the default address at the team's mark as built |
 | 03.11.2026 | **Security audit fix: a spoofed caller ID no longer moves a recognized customer's default address (audit of 02.11.2026, P2 no. 4, #252; Maxi 03.11.2026, option B).** `note_order` made the address of every confirmed delivery from the own line the customer's only default at the guest's yes, so a stranger with the owner's caller ID could make their address the owner's "letztes Mal", which the owner later confirms without hearing it (L12). The yes now counts the order and moves `last_contact_at` as before; the default moves at the team's mark „In Kasse eingegeben“ (`board.mark_entered`, Maxi's decision of 03.11.2026), the step where a person handles every confirmed order (L18), to the address of the customer's newest confirmed, not cancelled delivery the team ever marked (`board.settle_default`; the audit entry keeps a mark a correction cleared). „Storniert“ on a marked delivery settles it again by the same rule, to none when nothing marked is left; a cancel before any mark leaves the default alone. Red tests first (`test_default_address_at_mark.py`, 19; 13 red before): two marks of one customer at once (the customer row is locked, without it the second mark hit the unique index of the default), two cancels at once and an older mark while a correction holds the newer mark back (Codex #520), a newer draft that holds no default, a newer delivery never marked, a cancel before any mark that keeps a default from before, a cancel that falls back to a delivery a correction unmarked (Codex #520, round 2); the file runs on the app's session settings, without autoflush, which hid that the history query missed the pending mark (Codex #520, round 3: `settle_default` flushes first), the yes keeps the old default, the mark moves it, a new customer has none before the mark, a cancel before the mark moves nothing, a cancel after the mark gives the earlier address back or leaves none, also after a correction cleared the mark (found in the own review), a second mark and a correction with its new mark leave one default, a mark after the customer row was erased, a foreign-line order (#489), and a late mark of an older delivery that keeps the newer address. Three tests of `test_domain_draft_delivery.py` that pinned the default at the yes are changed or folded in. No migration. docs/03, docs/04, docs/11 and the assumptions synced; the details of option B under Made Assumptions |

diff --git a/docs/design/floor-plan/README.md b/docs/design/floor-plan/README.md
@@ -25,8 +25,10 @@ browser permits it; it is not a backup or production persistence.
   light/dark appearance of this editor. This approval concerns the floor plan;
   it does not replace D27's operations-board styling elsewhere.
   Superseded for the colours (Maxi, 03.11.2026, after the first production
-  build): the editor wears the board's D27 palette and its one dark theme.
-  Layout and behaviour stay as approved.
+  build): the editor wears the board's D27 palette and its one dark theme, the
+  plan drawn in neon, the selection in violet. Free labels also turn now
+  (across, upright from below, upright from above). Layout and the rest of the
+  behaviour stay as approved.
 - Maxi chose HTMX with native pointer events over introducing React for this
   view. D6 stays in force: Python, FastAPI, Jinja2 and HTMX. Dragging is local;
   persist the completed operation rather than making a request for each pointer
